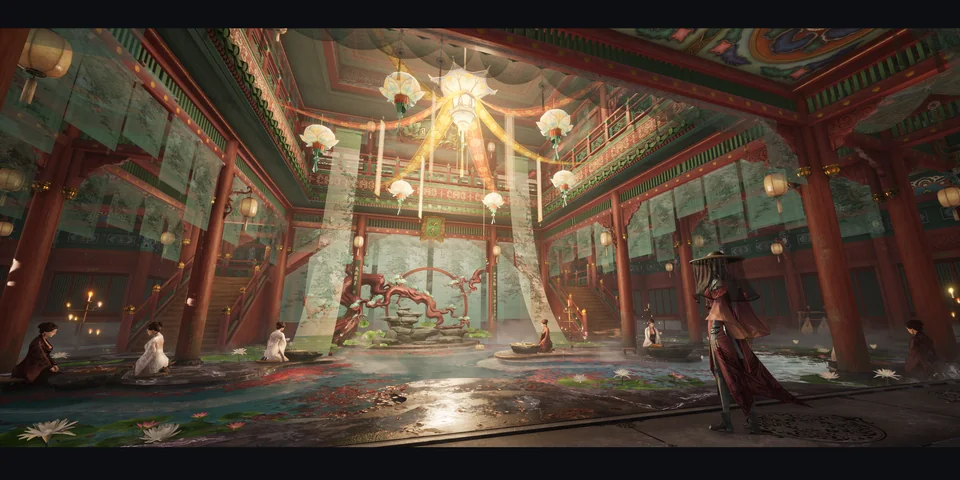
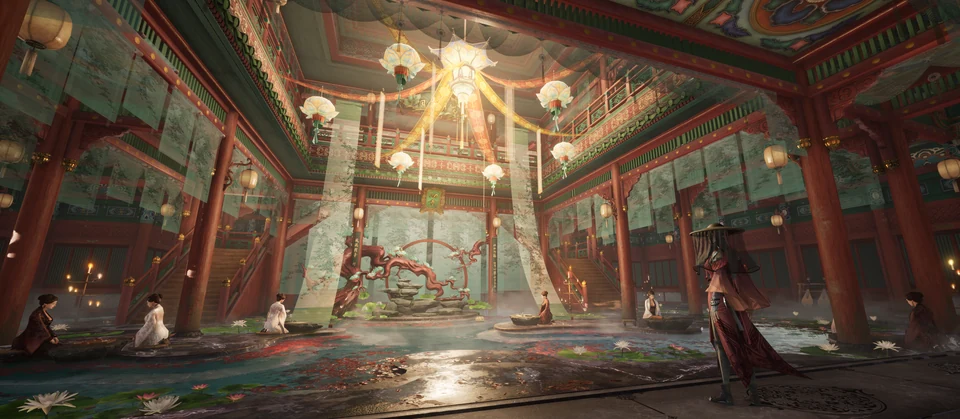
2026-10-11 23:43（北京时间）｜去除国风场景缩略图黑边并保持卡片尺寸

diff --git a/index.html b/index.html
@@ -58,7 +58,7 @@
       <div class="featured-grid">
         <!-- 替换为你的图片与信息 -->
         <a class="feature-card" href="project.html?id=cn-levelart-first">
-          <img src="artwork_picture/artwork_cover/CN_LevelArt_first_1_low.webp" alt="国风场景｜场景美术练习" width="960" height="480" loading="lazy">
+          <img src="artwork_picture/artwork_cover/CN_LevelArt_first_1_low.webp" alt="国风场景｜场景美术练习" width="960" height="419" loading="lazy">
           <div class="feature-meta">
             <h3>国风场景｜场景美术练习</h3>
             <p>场景效果 · 资产展示</p>

diff --git a/works.html b/works.html
@@ -49,7 +49,7 @@
   <section class="cards-grid" id="workGrid">
     <a class="card" href="project.html?id=cn-levelart-first" data-cat="scene" data-year="" data-newest-priority="1">
       <div class="card-img-wrap">
-        <img src="artwork_picture/artwork_cover/CN_LevelArt_first_1_low.webp" alt="国风场景｜场景美术练习" width="960" height="480" loading="lazy">
+        <img src="artwork_picture/artwork_cover/CN_LevelArt_first_1_low.webp" alt="国风场景｜场景美术练习" width="960" height="419" loading="lazy">
       </div>
       <div class="card-meta">
         <h3>国风场景｜场景美术练习</h3>

diff --git a/assets/css/styles.css b/assets/css/styles.css
@@ -570,6 +570,11 @@ h1, h2, h3, h4 {
   padding: 16px 4px;
 }
 
+.feature-card[href="project.html?id=cn-levelart-first"] img,
+.card[href="project.html?id=cn-levelart-first"] img {
+  object-position: 60% center;
+}
+
 .card-meta h3 {
   margin: 0 0 6px;
   font-size: 1.15rem;
